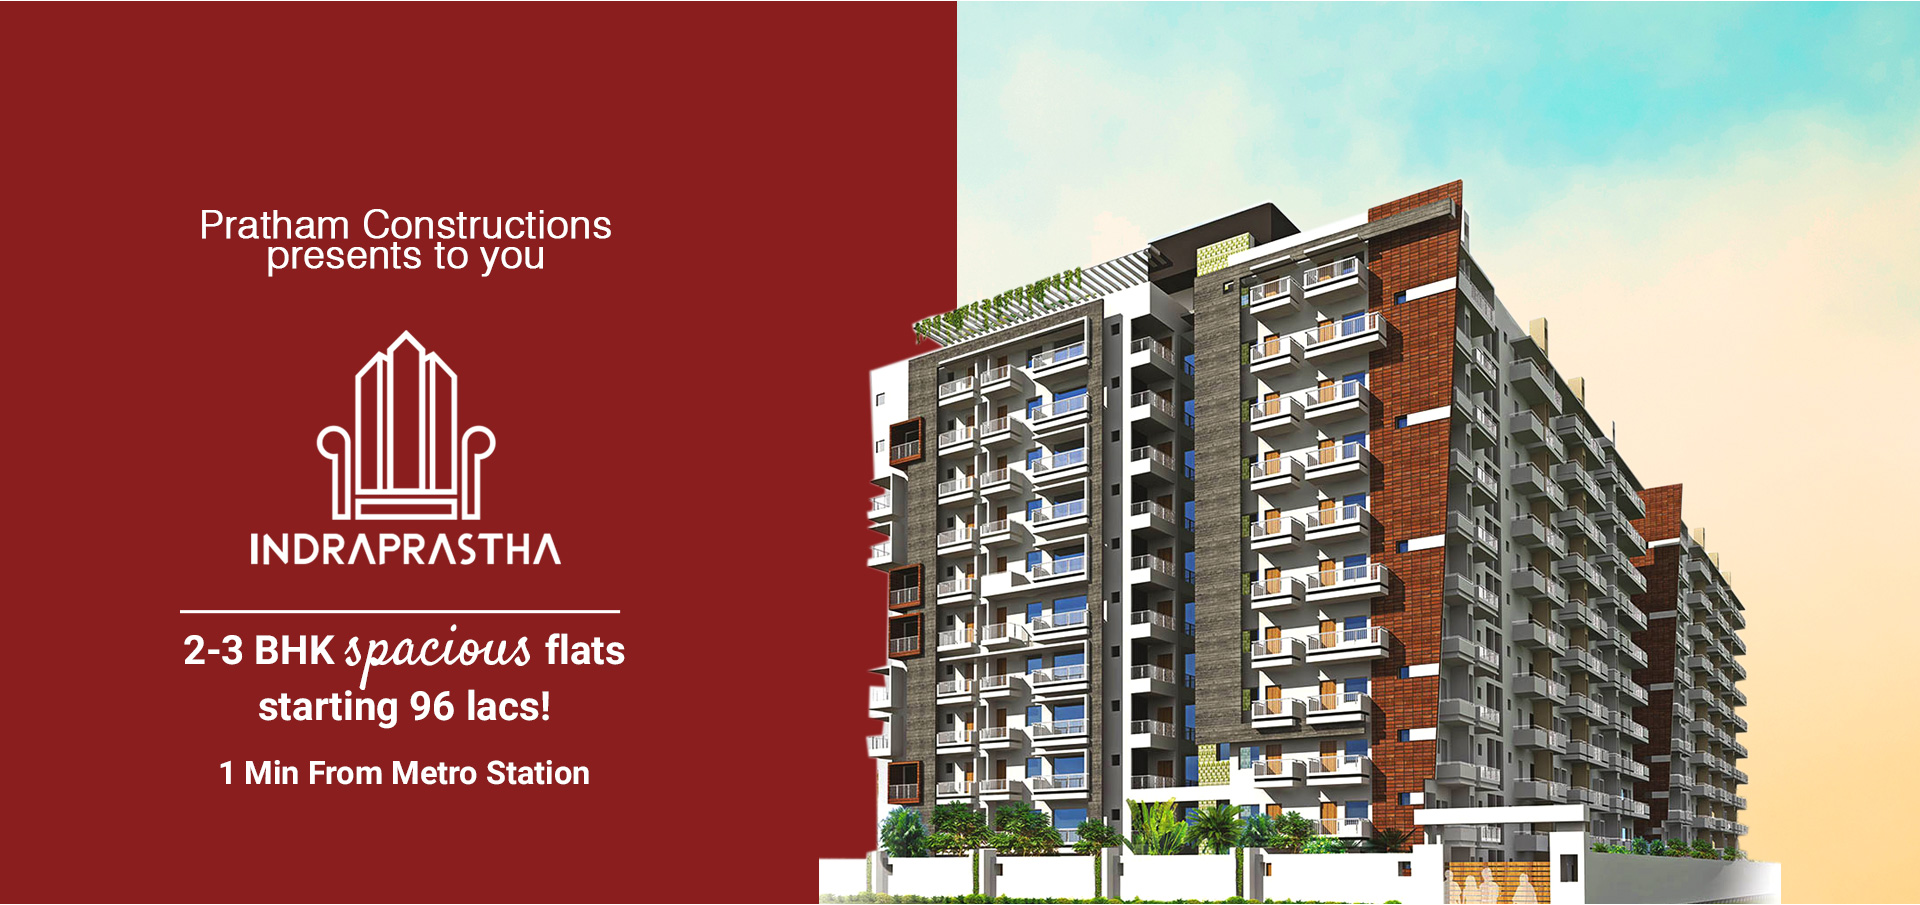
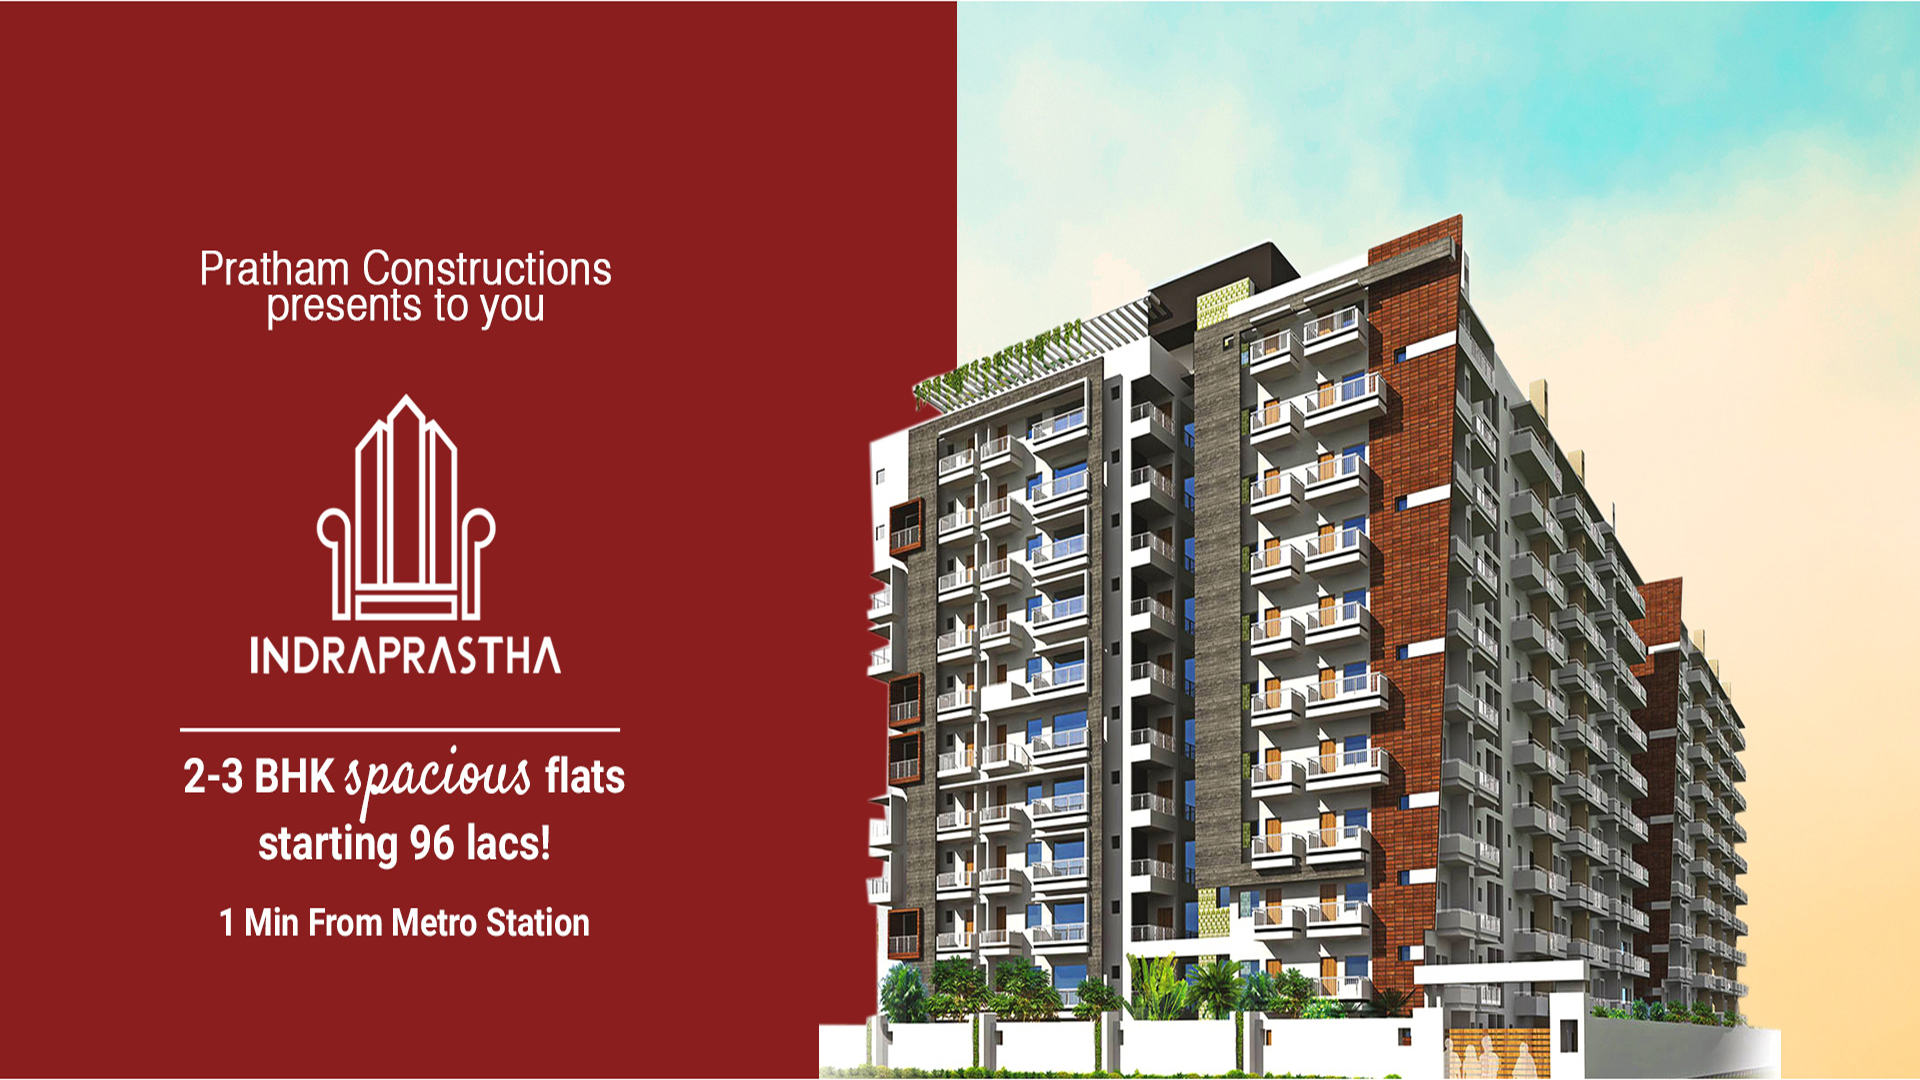
update home page project section & slider images

Changed region(s): [[0.0, 0.9901, 0.7188, 1.0], [0.8438, 0.9901, 0.9062, 1.0], [0.7812, 0.9901, 0.8125, 1.0]]

diff --git a/css/custom.css b/css/custom.css
@@ -90,6 +90,7 @@
   margin: 15px;
   
 }
+.details { background: rgba(33, 37, 41, 0.9) ;}
 .testp {color:#707070;text-align: left;padding:10px 0; border-top:#FAA61A solid 5px; line-height: 24px; }
 
 .test-title {color:#FAA61A}
@@ -109,7 +110,7 @@ a.btn-project {border:1px #FAA61A solid; border-radius: 30px; margin: 10px 0; pa
   background-color: rgba(255, 255, 255, 0.05);
 }
 .navbar-collapse {margin-top:10px ;}
-.slide-image {height: calc(100% + 150px);}
+.slide-image {height: calc(100% + 100px);}
 .fa, .far, .fas {
   font-family: "FontAwesome" !important  ;
 }

diff --git a/index.php b/index.php
@@ -56,7 +56,7 @@ include 'includes/header.php';
 		top: 0;
 		left: 0px;
 		width: calc(100% + 100px);
-		height: calc(100% + 200px);
+		height: calc(100% + 120px);
 		background-position: 100%;
 		background-size: cover;
 	}
@@ -406,7 +406,18 @@ include 'includes/header.php';
 							<span class="test-title" wfd-id="167"><b>Indraprastha</b></span>
 							<span class="test-info" wfd-id="166">Near Yeshwantpur Metro Station</span>
 						</span>
-						<p class="testp">Located at Yashwantpur, Indraprastha is a premium residential project nestled in the manicured greens and replete with all modern amenities offering a blissful life. The amenities highlights include gymnasium, swimming pool and other sports facilities such as Squash Court, Badminton Court, Multipurpose Court, etc.  </p>
+						
+						<div class="col-sm-12 details">
+						<div class="row">
+						<div class="col-sm-6 color_white"><b class="color_default" > Type :</b> Residential Apartment</div>
+						<div class="col-sm-6 color_white"><b class="color_default">Area Range  :</b> 1250-1655 Sq.Ft</div>
+						<div class="col-sm-6 color_white"><b class="color_default">Location :</b> Yeshwanthpur</div>
+						<div class="col-sm-6 color_white"><b class="color_default">Classification  :</b> 2BHK,3BHK</div>
+						<div class="col-sm-6 color_white"><b class="color_default">Possession  :</b> Dec 2019</div>
+						<div class="col-sm-6 color_white"><b class="color_default">No. of Units   :</b>  253 Units </div>
+						</div>
+						</div>
+					<?php /*	<p class="testp">Located at Yashwantpur, Indraprastha is a premium residential project nestled in the manicured greens and replete with all modern amenities offering a blissful life. The amenities highlights include gymnasium, swimming pool and other sports facilities such as Squash Court, Badminton Court, Multipurpose Court, etc.  </p> */ ?>
 
 						<a class="btn btn-project" href="indraprastha.php">View Project</a>
 
@@ -424,7 +435,17 @@ include 'includes/header.php';
 							<span class="test-title" wfd-id="167"><b>Casa Serene</b></span>
 							<span class="test-info" wfd-id="166"></span>
 						</span>
-						<p class="testp">Indulge in absolute serenity while still having the best access to urban amenities at Casa Serene. Located at Dasarahalli on Tumkur Road, Casa Serene has 2 and 3BHK apartments with modern amenities.  It offers smooth connectivity to the prime locations in the city, besides housing many reputed educational institutions, hospitals etc.</p>
+						<div class="col-sm-12 details">
+						<div class="row">
+						<div class="col-sm-6 color_white"><b class="color_default" > Type :</b> Residential Apartment</div>
+						<div class="col-sm-6 color_white"><b class="color_default">Area Range  :</b> 1164-1583 Sq.Ft</div>
+						<div class="col-sm-6 color_white"><b class="color_default">Location :</b> Prashanth Nagar</div>
+						<div class="col-sm-6 color_white"><b class="color_default">Classification  :</b> 2BHK,3BHK</div>
+						<div class="col-sm-6 color_white"><b class="color_default">Possession  :</b> Ready To Move</div>
+						<div class="col-sm-6 color_white"><b class="color_default">No. of Units   :</b>  140 Units </div>
+						</div>
+						</div>
+						<?php /*<p class="testp">Indulge in absolute serenity while still having the best access to urban amenities at Casa Serene. Located at Dasarahalli on Tumkur Road, Casa Serene has 2 and 3BHK apartments with modern amenities.  It offers smooth connectivity to the prime locations in the city, besides housing many reputed educational institutions, hospitals etc.</p> */ ?>
 						
 						<a class="btn btn-project" href="#">View Project</a>
 					</div>
